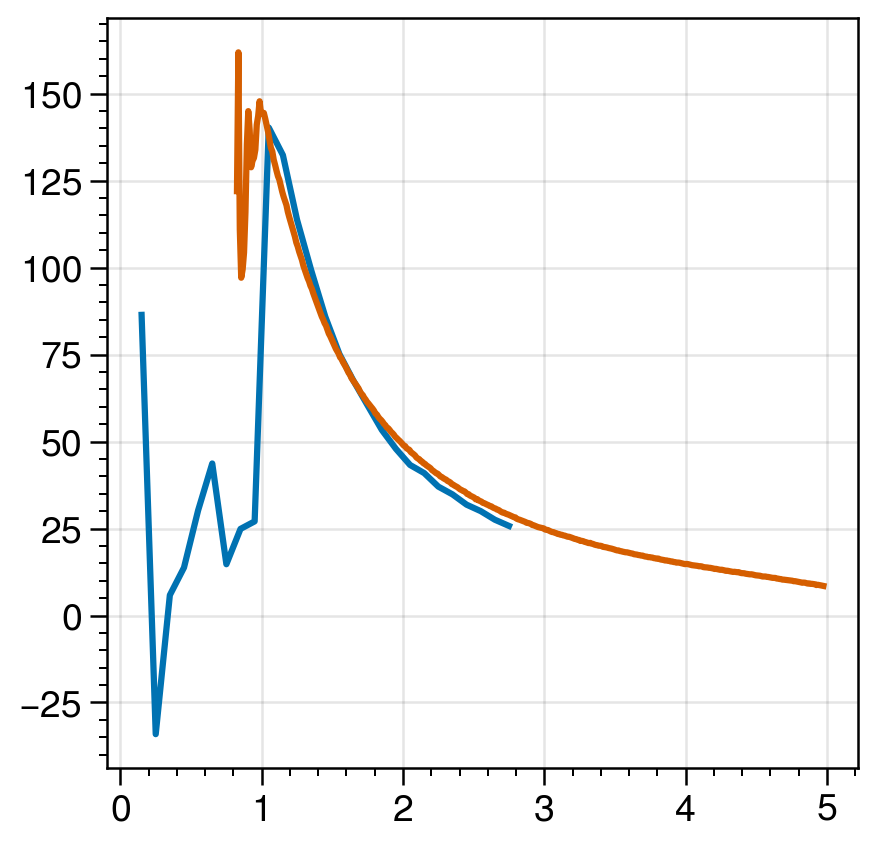
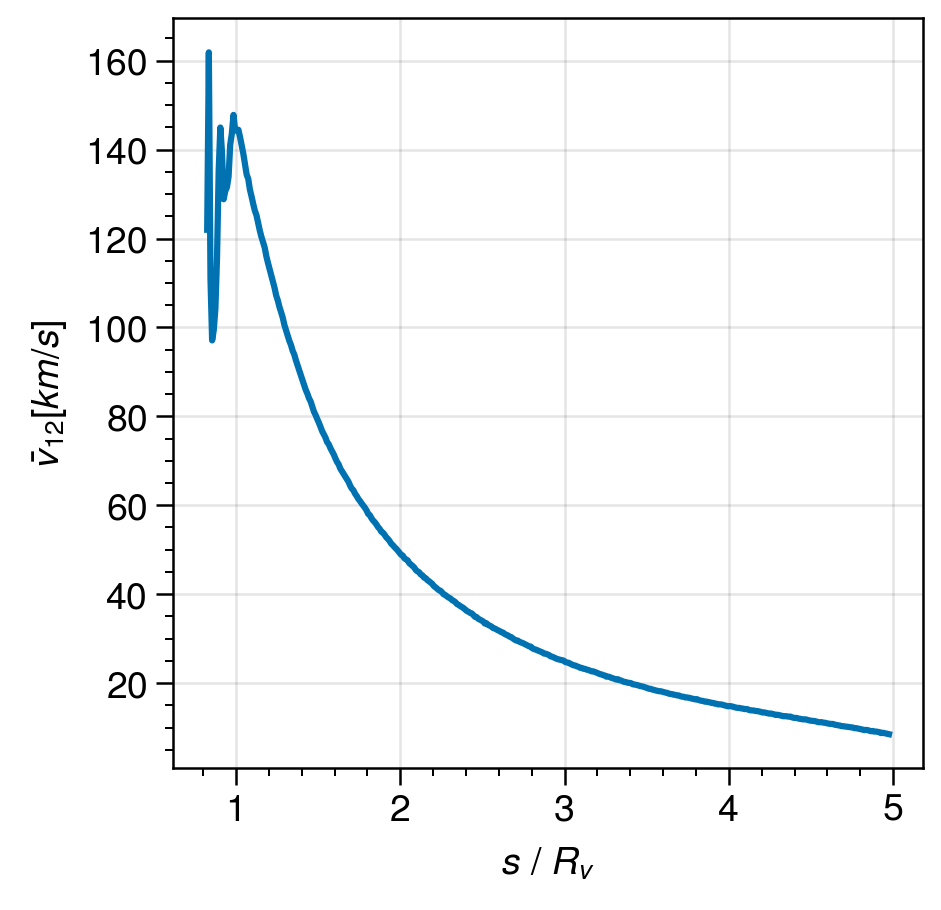
Working pair velocity implementation

diff --git a/test/plot.py b/test/plot.py
@@ -9,9 +9,10 @@ import proplot as pplt
 
 fig, ax = pplt.subplots(nrows=1, ncols=1, share=0)
 s, vnorm = np.loadtxt("test/threaded_sub.dat", usecols=(2, 5), delimiter=',', skiprows=1, unpack=True)
-ax[0].plot(s, vnorm)
+#ax[0].plot(s, vnorm)
 
 s, vnorm = np.loadtxt("test/threaded_cl.dat", usecols=(2, 5), delimiter=',', skiprows=1, unpack=True)
 ax[0].plot(s, vnorm)
+ax[0].format(xlabel='$s$ / $R_v$', ylabel = r'$\bar{v}_{12} [km/s]$')
 fig.savefig("plots/test.png", dpi=300)
 
